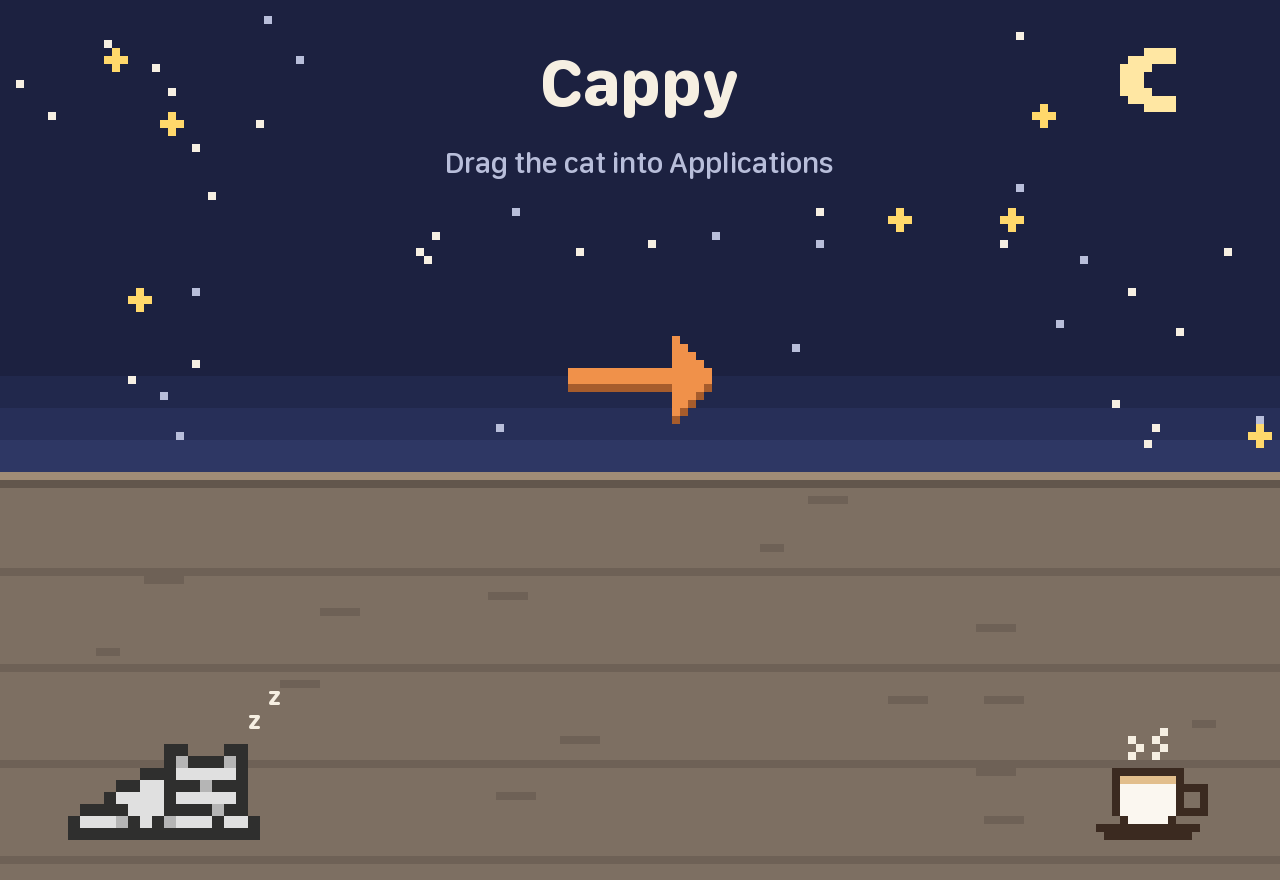
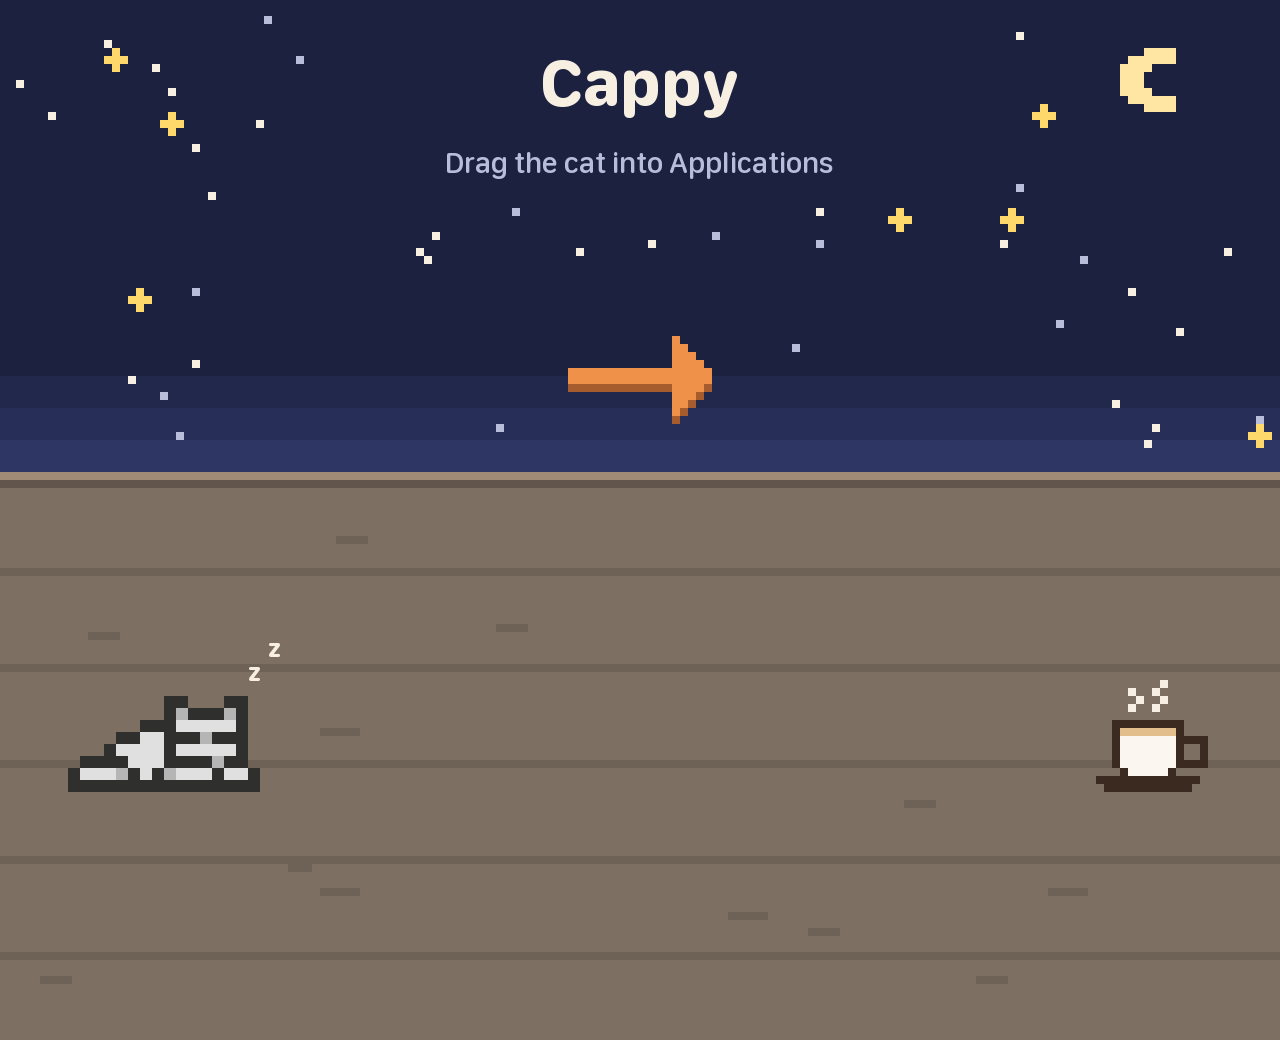
Fit the DMG window to Finder's bars and harden make-dmg

diff --git a/scripts/make-dmg-background.py b/scripts/make-dmg-background.py
@@ -19,7 +19,9 @@ ROOT = pathlib.Path(__file__).resolve().parent.parent
 OUT = ROOT / "scripts" / "dmg" / "background.tiff"
 SLEEP_SPRITE = ROOT / "Resources" / "Sprites" / "sleep.png"
 
-W, H = 640, 440          # window content size in points
+W, H = 640, 520          # art size in points; taller than the window so the
+                         # shelf keeps going if Finder shows extra bars
+CONTENT_BOTTOM = 400     # everything that matters sits above this line
 SHELF_TOP = 236          # icons sit on this line
 ICON_Y = 190             # centre of the top row of icons
 UNIT = 4                 # one "pixel" of the pixel art, in points
@@ -72,7 +74,7 @@ def font(size: float, weight: str, s: int) -> ImageFont.FreeTypeFont:
     try:
         f.set_variation_by_name(weight)
     except Exception:
-        pass
+        print(f"warning: {FONT} has no '{weight}' weight; using its default")
     return f
 
 
@@ -153,14 +155,14 @@ def draw(s: int) -> Image.Image:
     sprite = sprite.crop(sprite.getbbox())
     scale = 3 * s
     sprite = sprite.resize((sprite.width * scale, sprite.height * scale), Image.NEAREST)
-    cat_x, cat_bottom = 34 * s, 420 * s
+    cat_x, cat_bottom = 34 * s, (CONTENT_BOTTOM - 4) * s
     img.paste(sprite, (cat_x, cat_bottom - sprite.height), sprite)
     zz = font(13, "Bold", s)
     d.text((cat_x + sprite.width - 6 * s, cat_bottom - sprite.height - 20 * s), "z", font=zz, fill=STAR)
     d.text((cat_x + sprite.width + 4 * s, cat_bottom - sprite.height - 32 * s), "z", font=zz, fill=STAR)
 
     # And a cappuccino on the other side.
-    gx, gy = (W - 92) // UNIT, (H - 56) // UNIT
+    gx, gy = (W - 92) // UNIT, (CONTENT_BOTTOM - 40) // UNIT
     colors = {"#": INK, "m": CUP, "c": CREMA}
     for r, row in enumerate(MUG):
         for c, ch in enumerate(row):

diff --git a/scripts/dmg/settings.py b/scripts/dmg/settings.py
@@ -14,14 +14,16 @@ symlinks = {"Applications": "/Applications"}
 hide_extensions = ["Read me first.txt"]
 
 background = os.path.join(here, "background.tiff")
-window_rect = ((200, 140), (640, 440))
+# Height covers the 440pt layout plus the title bar, with room to spare
+# for Finder tab/path bars; the art runs on below that.
+window_rect = ((200, 120), (640, 500))
 icon_size = 96
 text_size = 13
 label_pos = "bottom"
 icon_locations = {
     "Cappy.app": (180, 190),
     "Applications": (460, 190),
-    "Read me first.txt": (320, 352),
+    "Read me first.txt": (320, 322),
 }
 
 default_view = "icon-view"
